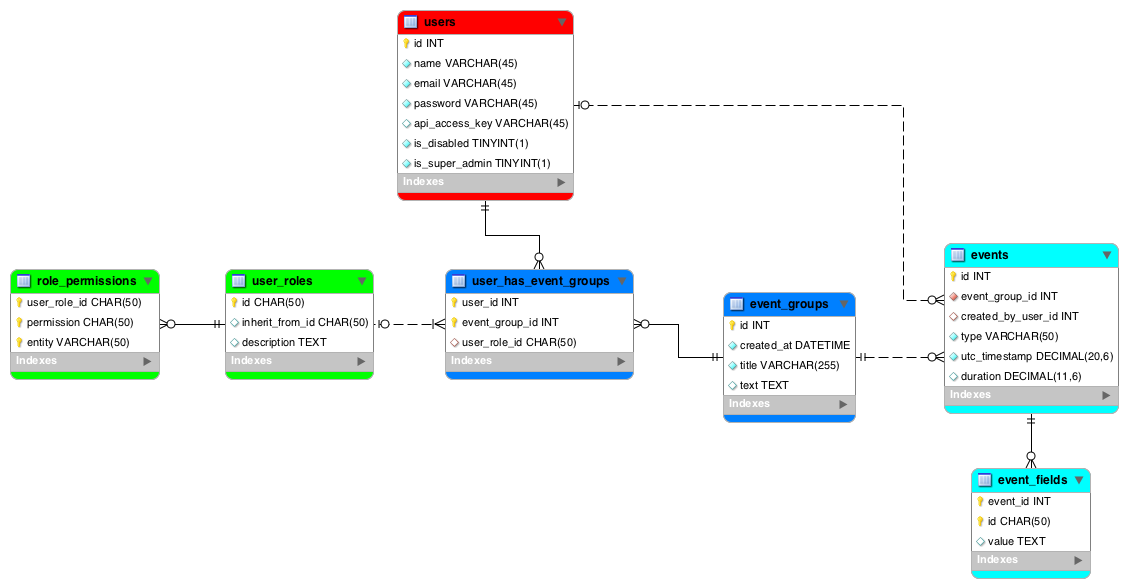
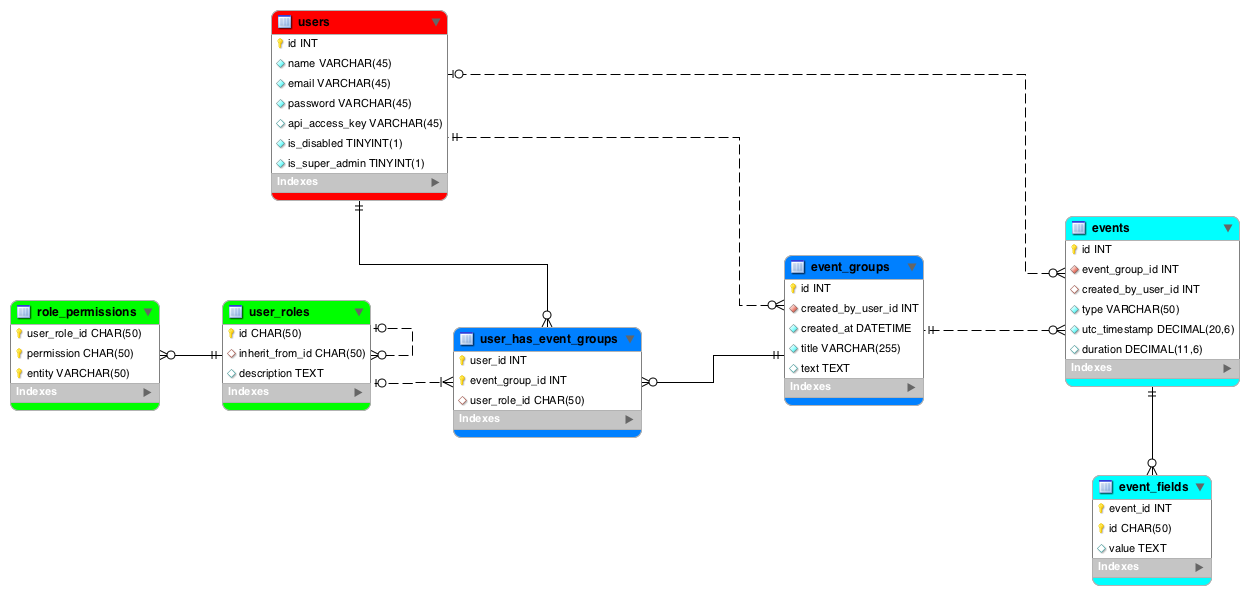
adding field to migrations and updating specs, #65

diff --git a/api/event_groups.rb b/api/event_groups.rb
@@ -88,8 +88,9 @@ module Piecemaker
 
 
         @event_group = EventGroup.create(
-          :title => params[:title],
-          :text  => params[:text])
+          :created_by_user_id => @user.id,
+          :title              => params[:title],
+          :text               => params[:text])
 
         UserHasEventGroup.unrestrict_primary_key
         UserHasEventGroup.create(
@@ -123,7 +124,8 @@ module Piecemaker
       #_________________________________________________________________________
       ##########################################################################
       desc "updates event_group with id" + 
-           " (requires update_event_group permission)"
+           " (requires update_event_group permission" + 
+           " and user is owner)"
       #-------------------------------------------------------------------------
       params do
         requires :id, type: Integer, desc: "event group id"
@@ -137,6 +139,8 @@ module Piecemaker
         error!('Not found', 404) unless @event_group
 
         authorize! :update_event_group, @event_group
+
+        
 
         @event_group.update_with_params!(params, :title, :text)
         @event_group.save

diff --git a/spec/api/event_group_spec.rb b/spec/api/event_group_spec.rb
@@ -16,8 +16,10 @@ describe "Piecemaker::API EventGroup" do
       @hans_admin           = User.make :hans_admin
     
       # create alpha BEFORE beta for "ordered by" specs
-      @alpha                = EventGroup.make :alpha
-      @beta                 = EventGroup.make :beta
+      @alpha                = EventGroup.make :alpha, 
+                                :created_by_user_id => @hans_admin.id
+      @beta                 = EventGroup.make :beta,
+                                :created_by_user_id => @hans_admin.id
     
       # create big_in_alpha BEFORE small_in_alpha for "ordered by" specs
       @big_in_alpha         = Event.make :big, 

diff --git a/spec/api/event_spec.rb b/spec/api/event_spec.rb
@@ -15,8 +15,10 @@ describe "Piecemaker::API Event" do
       @hans_admin     = User.make :hans_admin
       @klaus_disabled = User.make :klaus_disabled
 
-      @alpha          = EventGroup.make :alpha
-      @beta           = EventGroup.make :beta
+      @alpha          = EventGroup.make :alpha,
+                          :created_by_user_id => @hans_admin.id
+      @beta           = EventGroup.make :beta,
+                          :created_by_user_id => @hans_admin.id
 
       @big            = Event.make :big, 
                           :event_group_id => @alpha.id

diff --git a/spec/lib/helper_spec.rb b/spec/lib/helper_spec.rb
@@ -148,7 +148,8 @@ describe "Module helper" do
         @klaus_disabled           = User.make :klaus_disabled
         @user_with_no_api_access_key = User.make :user_with_no_api_access_key
 
-        @event_group              = EventGroup.make :alpha
+        @event_group              = EventGroup.make :alpha,
+                                      :created_by_user_id => @hans_admin.id
 
         @user_has_event_group      = UserHasEventGroup.make :default,
                                       :user_id => @pan.id,

diff --git a/spec/api/users_spec.rb b/spec/api/users_spec.rb
@@ -183,7 +183,8 @@ describe "Piecemaker::API User" do
         @klaus_disabled = User.make :klaus_disabled
 
 
-        @alpha                      = EventGroup.make :alpha
+        @alpha                      = EventGroup.make :alpha,
+                                        :created_by_user_id => @hans_admin.id
 
         @pan_has_event_group_alpha  = UserHasEventGroup.make :default,  
                                       :user_id => @pan.id, 

diff --git a/db/migrations/014_add_created_by_user_id_to_event_groups.rb b/db/migrations/014_add_created_by_user_id_to_event_groups.rb
@@ -1,0 +1,16 @@
+Sequel.migration do
+  up do
+    alter_table(:event_groups) do
+      add_column :created_by_user_id, Integer, :null => false
+      add_foreign_key([:created_by_user_id], :users, :key => :id, 
+        :on_delete => :restrict, :on_update => :cascade)
+    end
+  end
+
+  down do
+    alter_table(:event_groups) do
+      drop_foreign_key([:created_by_user_id])
+      drop_column :created_by_user_id
+    end
+  end
+end

diff --git a/spec/models/user_role_spec.rb b/spec/models/user_role_spec.rb
@@ -25,7 +25,8 @@ describe "Model UserRole" do
 
       @pan                 = User.make :pan
 
-      @event_group         = EventGroup.make :alpha
+      @event_group         = EventGroup.make :alpha,
+                              :created_by_user_id => @pan.id
 
       @user_has_event_group = UserHasEventGroup.make :default,
                                 :user_id => @pan.id,

diff --git a/spec/models/user_has_event_group_spec.rb b/spec/models/user_has_event_group_spec.rb
@@ -8,7 +8,8 @@ describe "Model UserHasEventGroup" do
     factory_batch do 
       @pan = User.make :pan
 
-      @event_group = EventGroup.make :alpha
+      @event_group = EventGroup.make :alpha,
+                      :created_by_user_id => @pan.id
 
       @event = Event.make :big, 
         :event_group_id => @event_group.id,

diff --git a/spec/models/event_field_spec.rb b/spec/models/event_field_spec.rb
@@ -8,7 +8,8 @@ describe "Model EventField" do
     factory_batch do 
       @pan = User.make :pan
 
-      @event_group = EventGroup.make :alpha
+      @event_group = EventGroup.make :alpha,
+                      :created_by_user_id => @pan.id
 
       @event = Event.make :big, 
         :event_group_id => @event_group.id,

diff --git a/spec/models/event_group_spec.rb b/spec/models/event_group_spec.rb
@@ -8,7 +8,8 @@ describe "Model EventGroup" do
     factory_batch do 
       @pan = User.make :pan
 
-      @event_group = EventGroup.make :alpha
+      @event_group = EventGroup.make :alpha,
+                      :created_by_user_id => @pan.id
 
       @event = Event.make :big, 
         :event_group_id => @event_group.id,

diff --git a/spec/models/event_spec.rb b/spec/models/event_spec.rb
@@ -8,7 +8,8 @@ describe "Model Event" do
     factory_batch do 
       @pan = User.make :pan
 
-      @event_group = EventGroup.make :alpha
+      @event_group = EventGroup.make :alpha,
+                      :created_by_user_id => @pan.id
 
       @event = Event.make :big, 
         :event_group_id => @event_group.id,

diff --git a/spec/models/user_spec.rb b/spec/models/user_spec.rb
@@ -8,7 +8,8 @@ describe "Model User" do
     factory_batch do 
       @pan = User.make :pan
 
-      @event_group = EventGroup.make :alpha
+      @event_group = EventGroup.make :alpha,
+                      :created_by_user_id => @pan.id
 
       @event = Event.make :big, 
         :event_group_id => @event_group.id,
